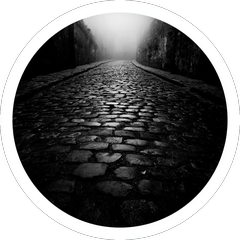
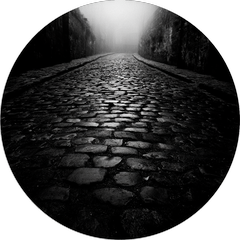
Crop road emblem to fill its circle so the white ring matches others

diff --git a/style.css b/style.css
@@ -553,7 +553,7 @@ body[data-deal="house"] .hand .cicon { width: 46px; height: 46px; padding: 5px; 
 .cicon.icon-Sword { background: url('assets/icon-sword.png') center/cover no-repeat, radial-gradient(circle at 38% 32%, #f3e7c4, #d9c592 70%, #c2ab77); }
 .cicon.icon-Chain { background: url('assets/icon-chain.png') center/cover no-repeat, radial-gradient(circle at 38% 32%, #f3e7c4, #d9c592 70%, #c2ab77); }
 .cicon.icon-Ferry { background: url('assets/icon-ferry.png') center/cover no-repeat, radial-gradient(circle at 38% 32%, #f3e7c4, #d9c592 70%, #c2ab77); }
-.cicon.icon-Road  { background: url('assets/icon-road.png')  center/cover no-repeat, radial-gradient(circle at 38% 32%, #f3e7c4, #d9c592 70%, #c2ab77); }
+.cicon.icon-Road  { background: url('assets/icon-road.png?v=2')  center/cover no-repeat, radial-gradient(circle at 38% 32%, #f3e7c4, #d9c592 70%, #c2ab77); }
 
 .cname {
   font-family: 'IM Fell English SC', serif;

diff --git a/index.html b/index.html
@@ -6,7 +6,7 @@
 <title>Stonelock — A Game of Regional Leverage</title>
 <link rel="preconnect" href="https://fonts.googleapis.com">
 <link href="https://fonts.googleapis.com/css2?family=Cinzel:wght@500;600;700&family=Alegreya:ital,wght@0,400;0,500;0,600;0,700;1,400;1,500&display=swap" rel="stylesheet">
-<link rel="stylesheet" href="style.css?v=50">
+<link rel="stylesheet" href="style.css?v=51">
 </head>
 <body>
 
@@ -291,6 +291,6 @@
   </div>
 </div>
 
-<script src="game.js?v=50"></script>
+<script src="game.js?v=51"></script>
 </body>
 </html>
